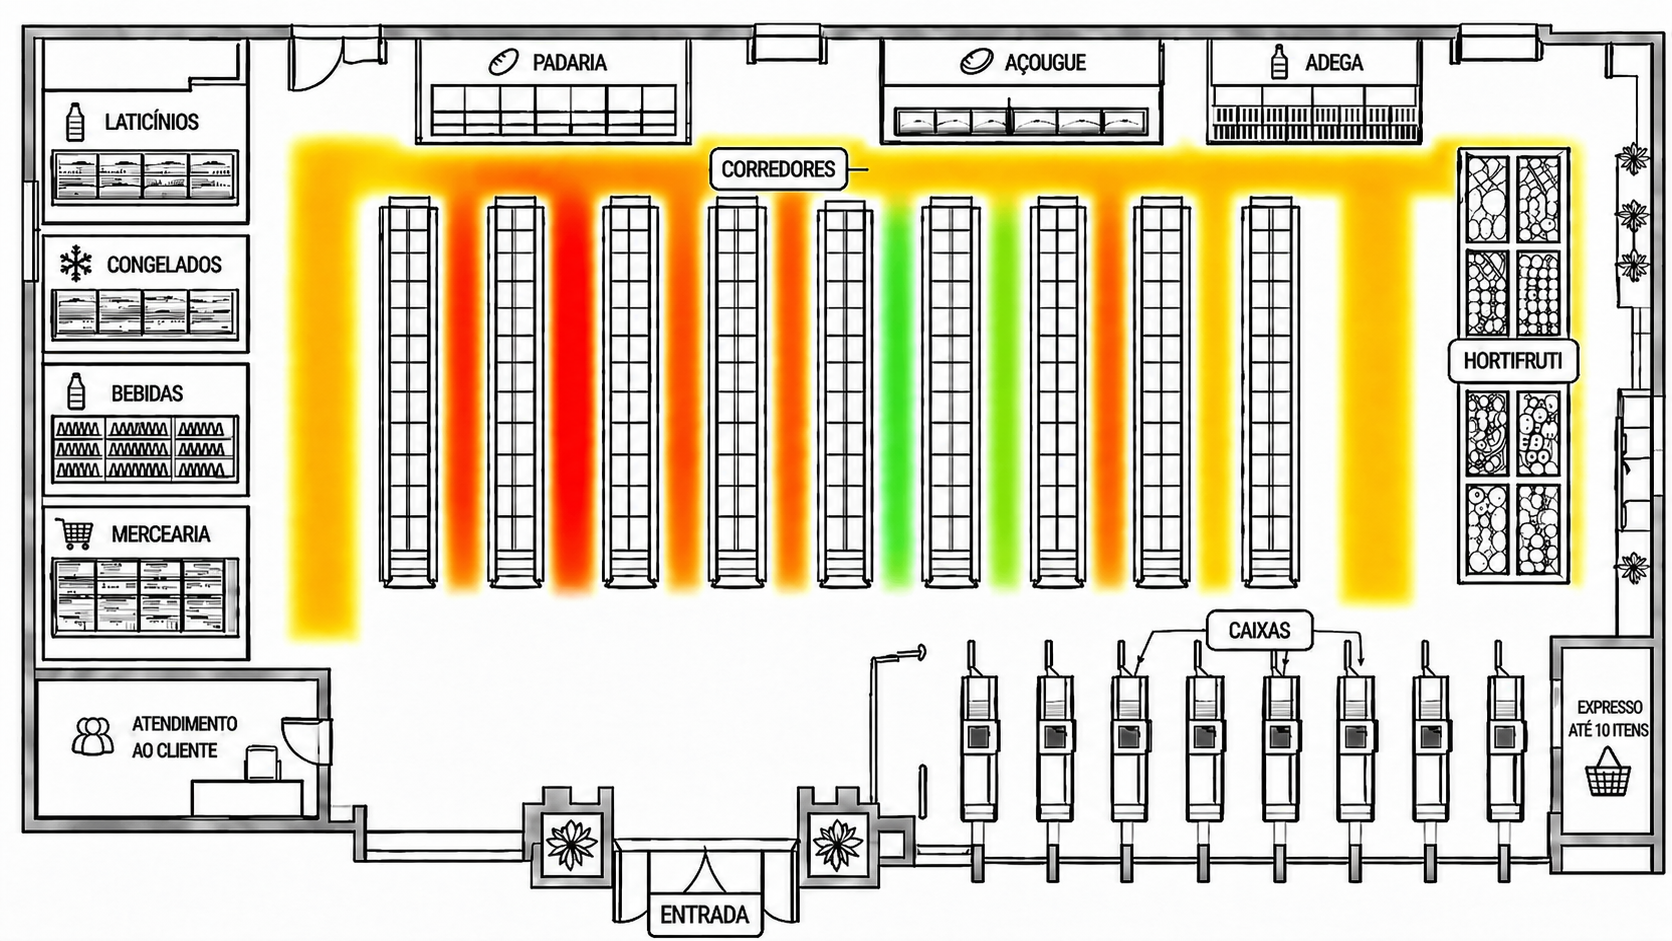
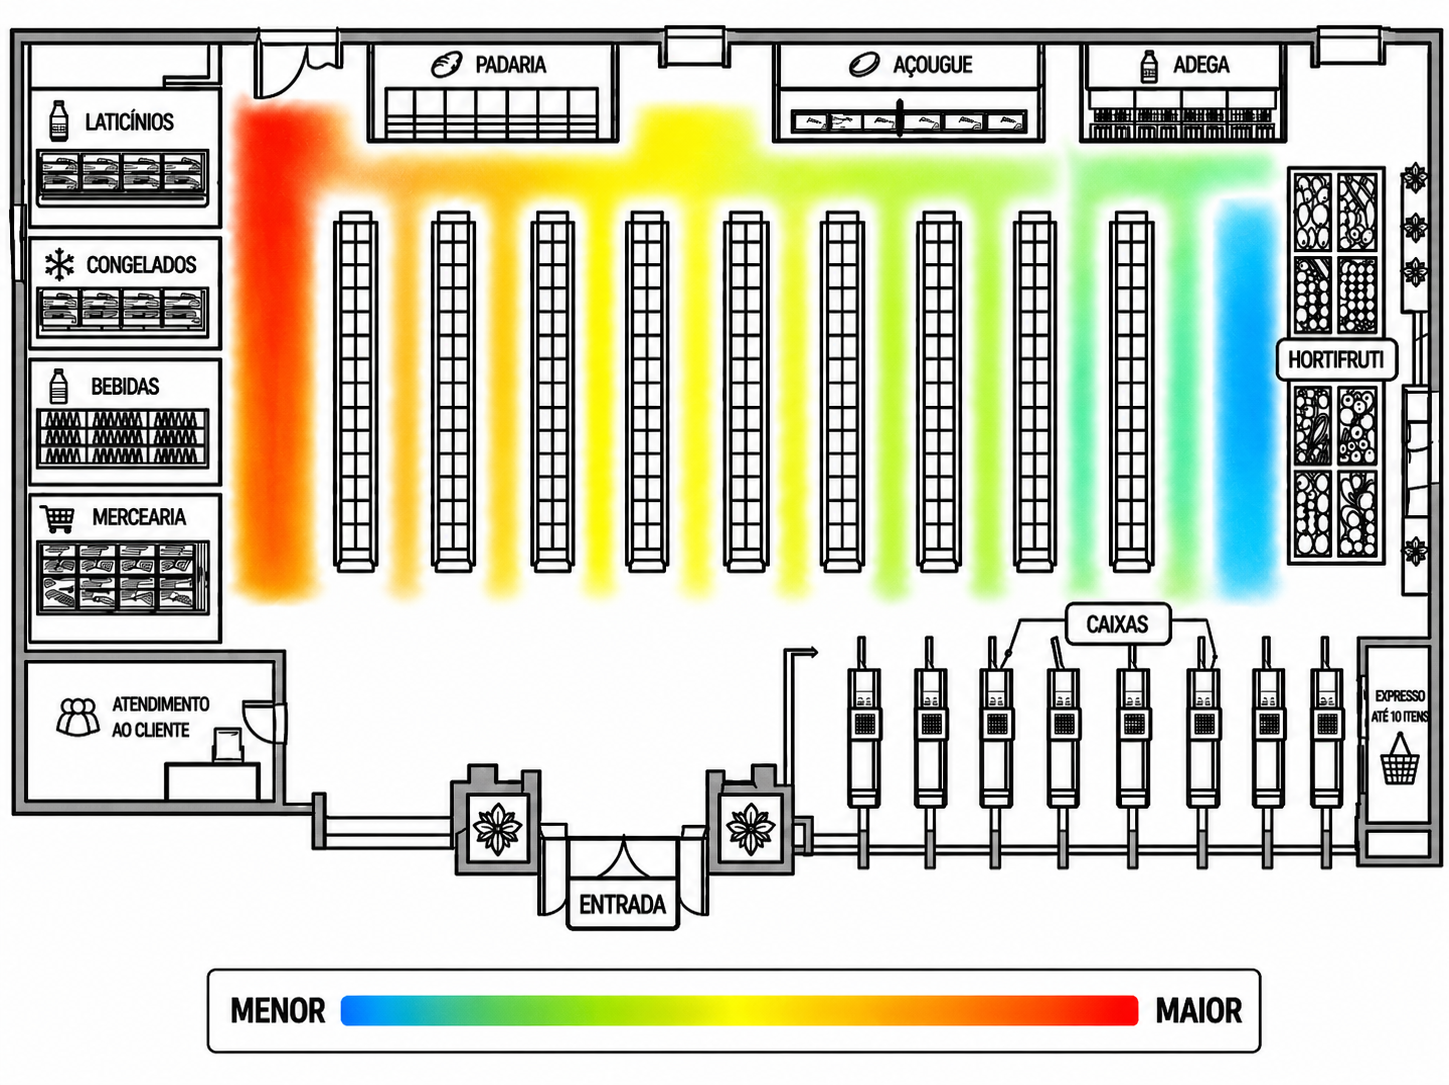
Ajuste na Dashboard e no Cadastro Filial: Ajuste na visibilidade do heatmap, nas cores das kpis e no display do gráfico de linhas; Ajuste nos placeholders do cadastro.

diff --git a/site/Dashboard.html b/site/Dashboard.html
@@ -31,7 +31,7 @@
                 <p>Comparação de Fluxo (Abril X Março)</p>
                 <div class="conteudoKpi">
                     <img class="kpiImg" src="assets/img/kpi1.png">
-                    <h3>-12% (495 Acessos)</h3>
+                    <h3><span style="color: red;">-12%</span> (495 Acessos)</h3>
                 </div>
             </div>
             <div class="card">
@@ -39,7 +39,7 @@
                 <p>Setor Mais Visitado - Mês de Abril</p>
                 <div class="conteudoKpi">
                     <img class="kpiImg" src="assets/img/kpi2.png">
-                    <h3>Lacticínios - 486 Acessos</h3>
+                    <h3>Lacticínios - <span style="color: green;">486 Acessos</span></h3>
                 </div>
             </div>
             <div class="card">
@@ -47,7 +47,7 @@
                 <p>Setor Menos Visitado - Mês de Abril</p>
                 <div class="conteudoKpi">
                     <img class="kpiImg" src="assets/img/kpi2.png">
-                    <h3>Hortifruti - 363 Acessos</h3>
+                    <h3>Hortifruti - <span style="color: red;">363 Acessos</span></h3>
                 </div>
             </div>
             <div class="card">
@@ -60,20 +60,20 @@
         </div>
         <div class="graficos">
             <div class="grafico">
-                <h3>Dias com maior fluxo</h3>
+                <h3>Fluxo Médio Mensal | Março</h3>
                 <canvas class="canva1" id="myChart"></canvas>
             </div>
             <div class="grafico">
-                <h3>Média do Fluxo por Setor do Mês de Abril</h3>
+                <h3>Fluxo Médio Semanal por Setor | 20/04 - 26/04</h3>
                 <canvas class="canva2" id="myChart2"></canvas>
             </div>
 
             <div class="grafico">
-                <h3>Fluxo por hora - 26/04/2026</h3>
+                <h3>Fluxo Acumulado por Hora | Ontem</h3>
                 <canvas class="canva3" id="myChart3"></canvas>
             </div>
             <div class="grafico">
-                <h3>Mapa de fluxo de pessoas</h3>
+                <h3>Mapa de Calor do Fluxo de Pessoas | Hoje</h3>
                 <img src="assets/img/mapaCalor.png" alt="">
             </div>
         </div>
@@ -109,7 +109,7 @@
             order: 0
         },
         {
-            label: 'Média de fluxo - Março',
+            label: 'Média de Fluxo',
             borderRadius: 7,
             backgroundColor: 'rgb(165, 90, 232)',
             borderColor: 'rgb(165, 90, 232)',
@@ -132,7 +132,8 @@
             backgroundColor: 'rgb(94, 25, 255)',
             borderColor: 'rgb(94, 25, 255)',
             borderRadius: 7,
-            data: [12, 14, 27, 17, 30, 21, 12]
+            data: [12, 14, 27, 17, 30, 21, 12],
+            hidden: true
         },
         {
             label: 'Hortifruti',
@@ -146,21 +147,24 @@
             backgroundColor: 'rgb(46, 11, 127)',
             borderColor: 'rgb(46, 11, 127)',
             borderRadius: 7,
-            data: [17, 17, 20, 35, 8, 21, 17]
+            data: [17, 17, 20, 35, 8, 21, 17],
+            hidden: true
         },
         {
             label: 'Padaria',
             backgroundColor: 'rgb(165, 90, 232)',
             borderColor: 'rgb(165, 90, 232)',
             borderRadius: 7,
-            data: [21, 27, 10, 25, 13, 22, 20]
+            data: [21, 27, 10, 25, 13, 22, 20],
+            hidden: true
         },
         {
             label: 'Bebidas',
             backgroundColor: 'rgb(0, 151, 253)',
             borderColor: 'rgb(0, 151, 253)',
             borderRadius: 7,
-            data: [10, 18, 15, 30, 18, 40, 28]
+            data: [10, 18, 15, 30, 18, 40, 28],
+            hidden: true
         },
         {
             label: 'Laticínios',

diff --git a/site/cadastro_filial.html b/site/cadastro_filial.html
@@ -23,8 +23,8 @@
                     <input type="text" id="ipt_cnpj" oninput="cnpj()" placeholder="CNPJ" maxlength="18">
                     <div id="validacao" class="validacao"></div>
                 </div>
-                <input type="text" id="ipt_rua" placeholder="Rua da filial">
-                <input type="text" id="ipt_cidade" placeholder="Cidade da filial">
+                <input type="text" id="ipt_rua" placeholder="Rua da Filial">
+                <input type="text" id="ipt_cidade" placeholder="Cidade da Filial">
 
                 <select id="slt_uf">
                     <option value="vazio" disabled selected>Selecione o Estado</option>

diff --git a/site/loxen_dashboard.html b/site/loxen_dashboard.html
@@ -43,7 +43,7 @@ const data = {
             order: 0
         },
         {
-            label: 'Média de fluxo - Março',
+            label: 'Média de fluxo',
             borderRadius: 7,
             backgroundColor: 'rgb(165, 90, 232)',
             borderColor: 'rgb(165, 90, 232)',
